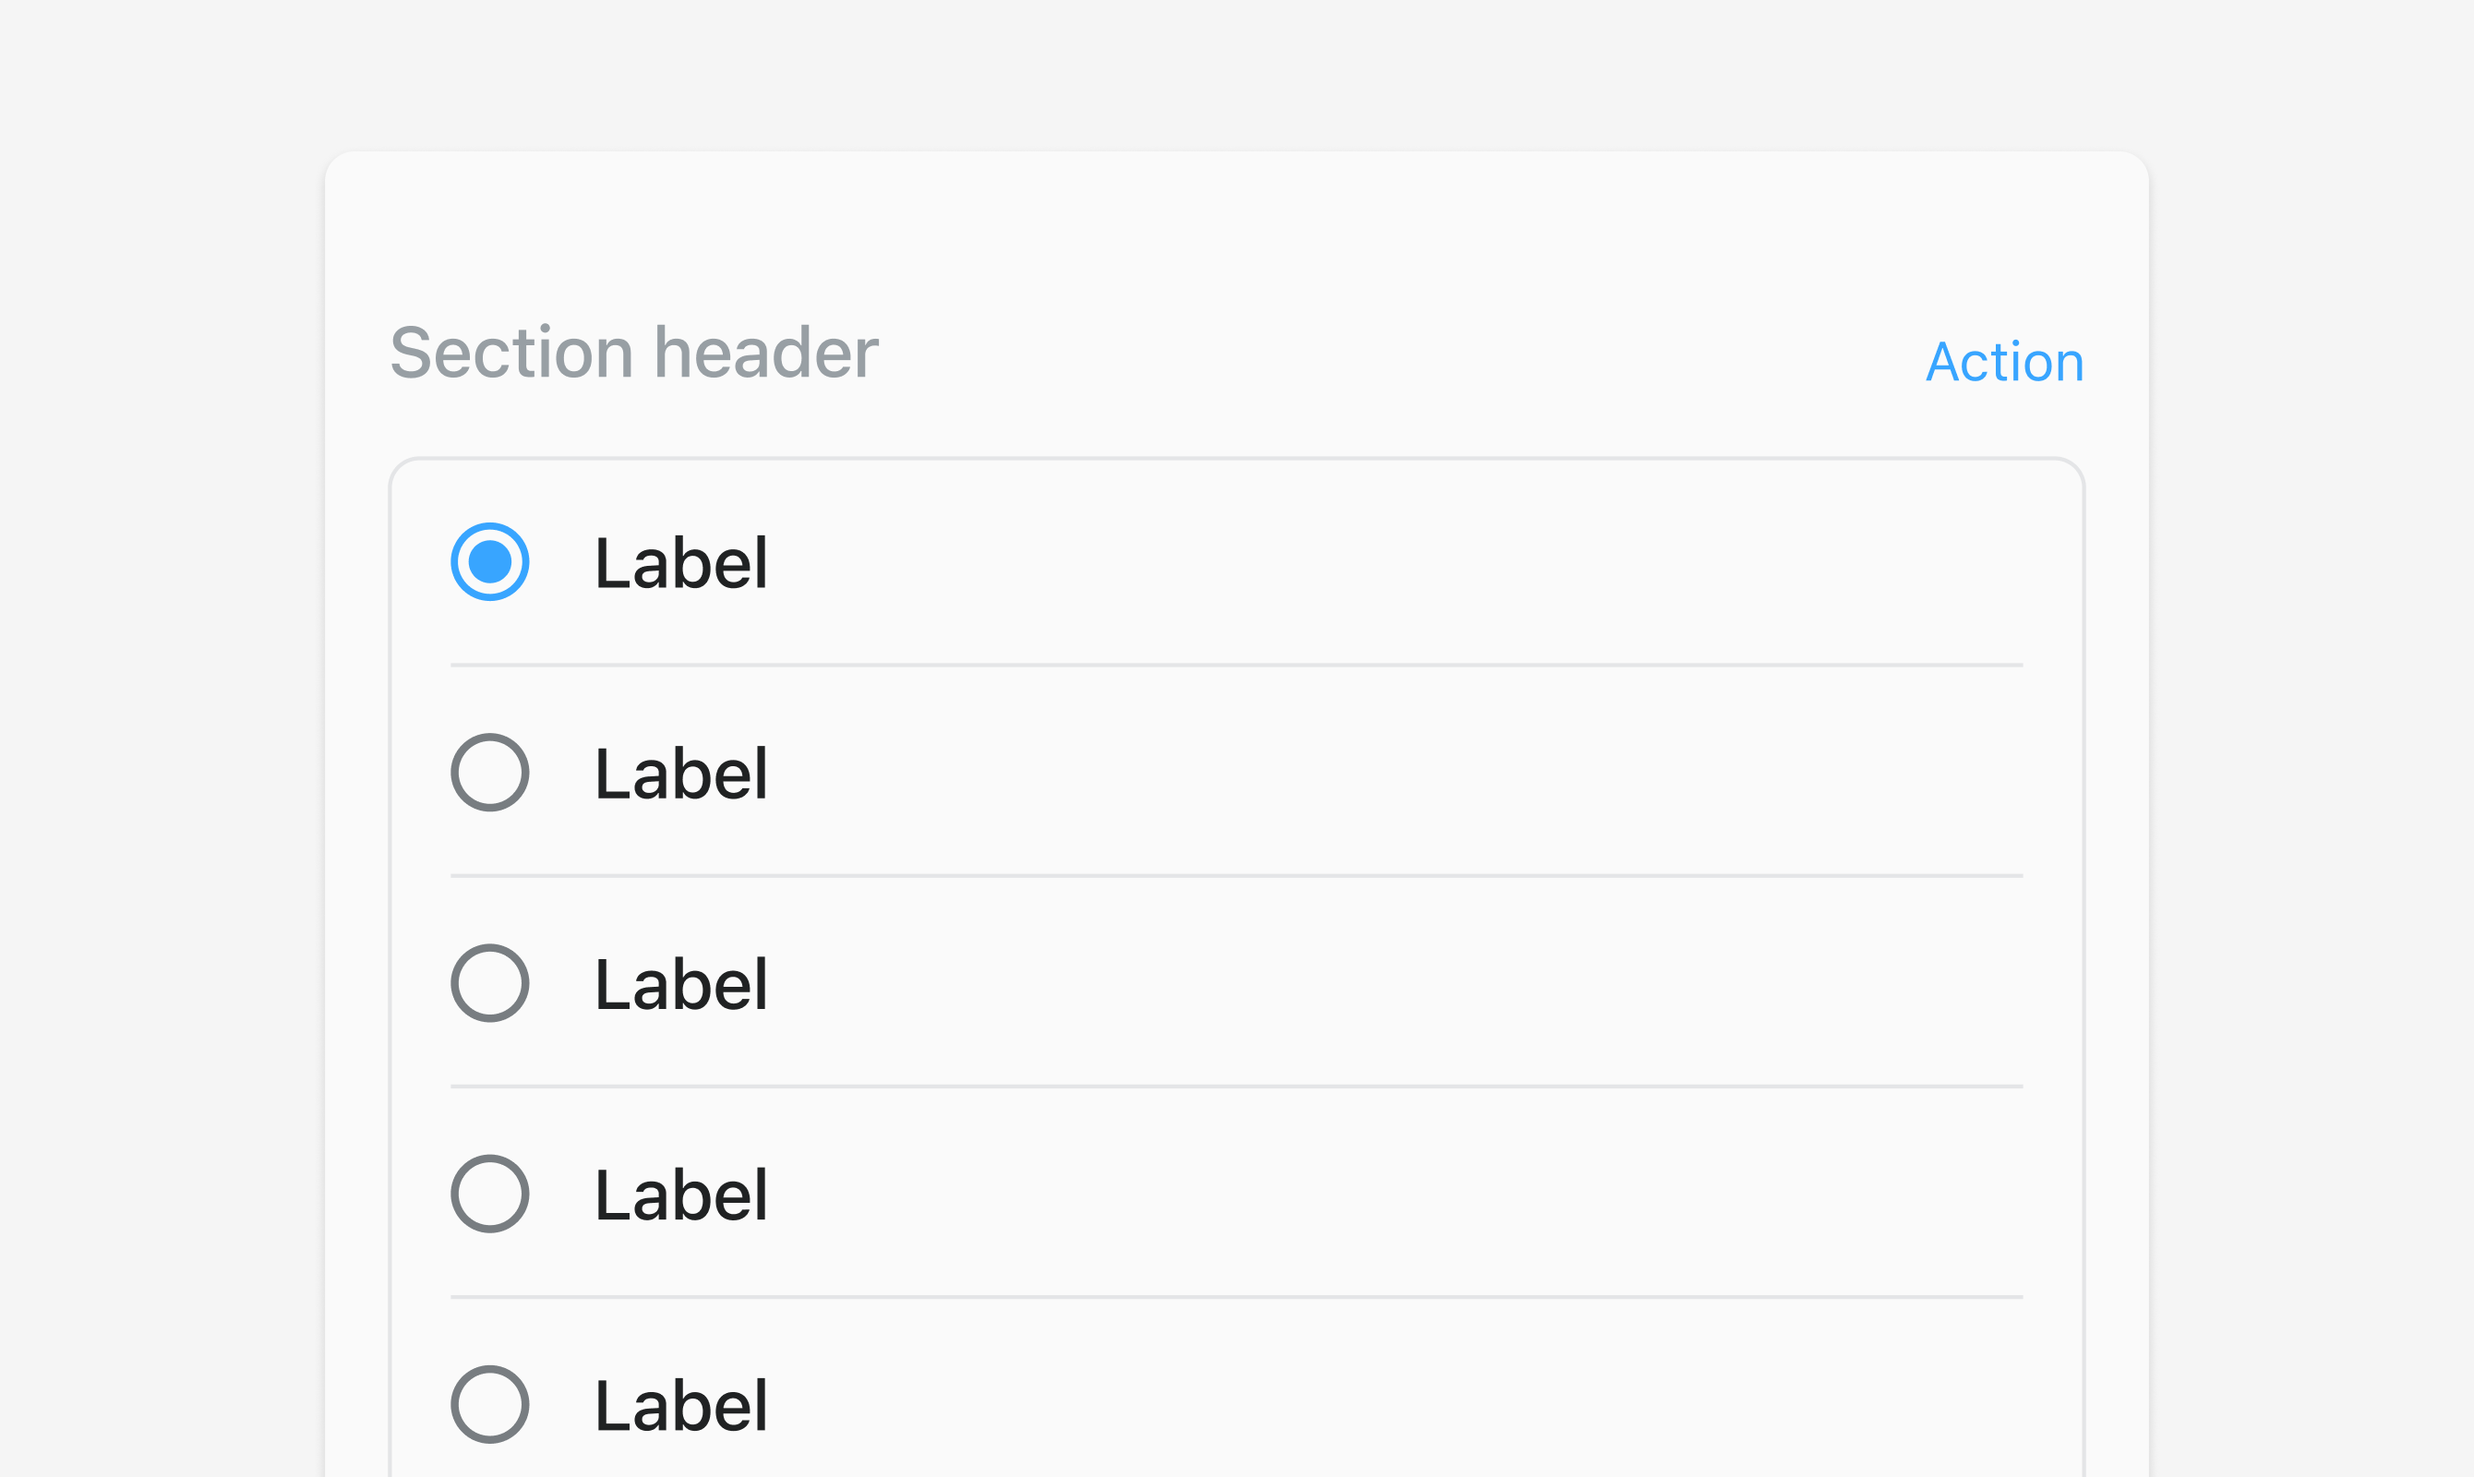
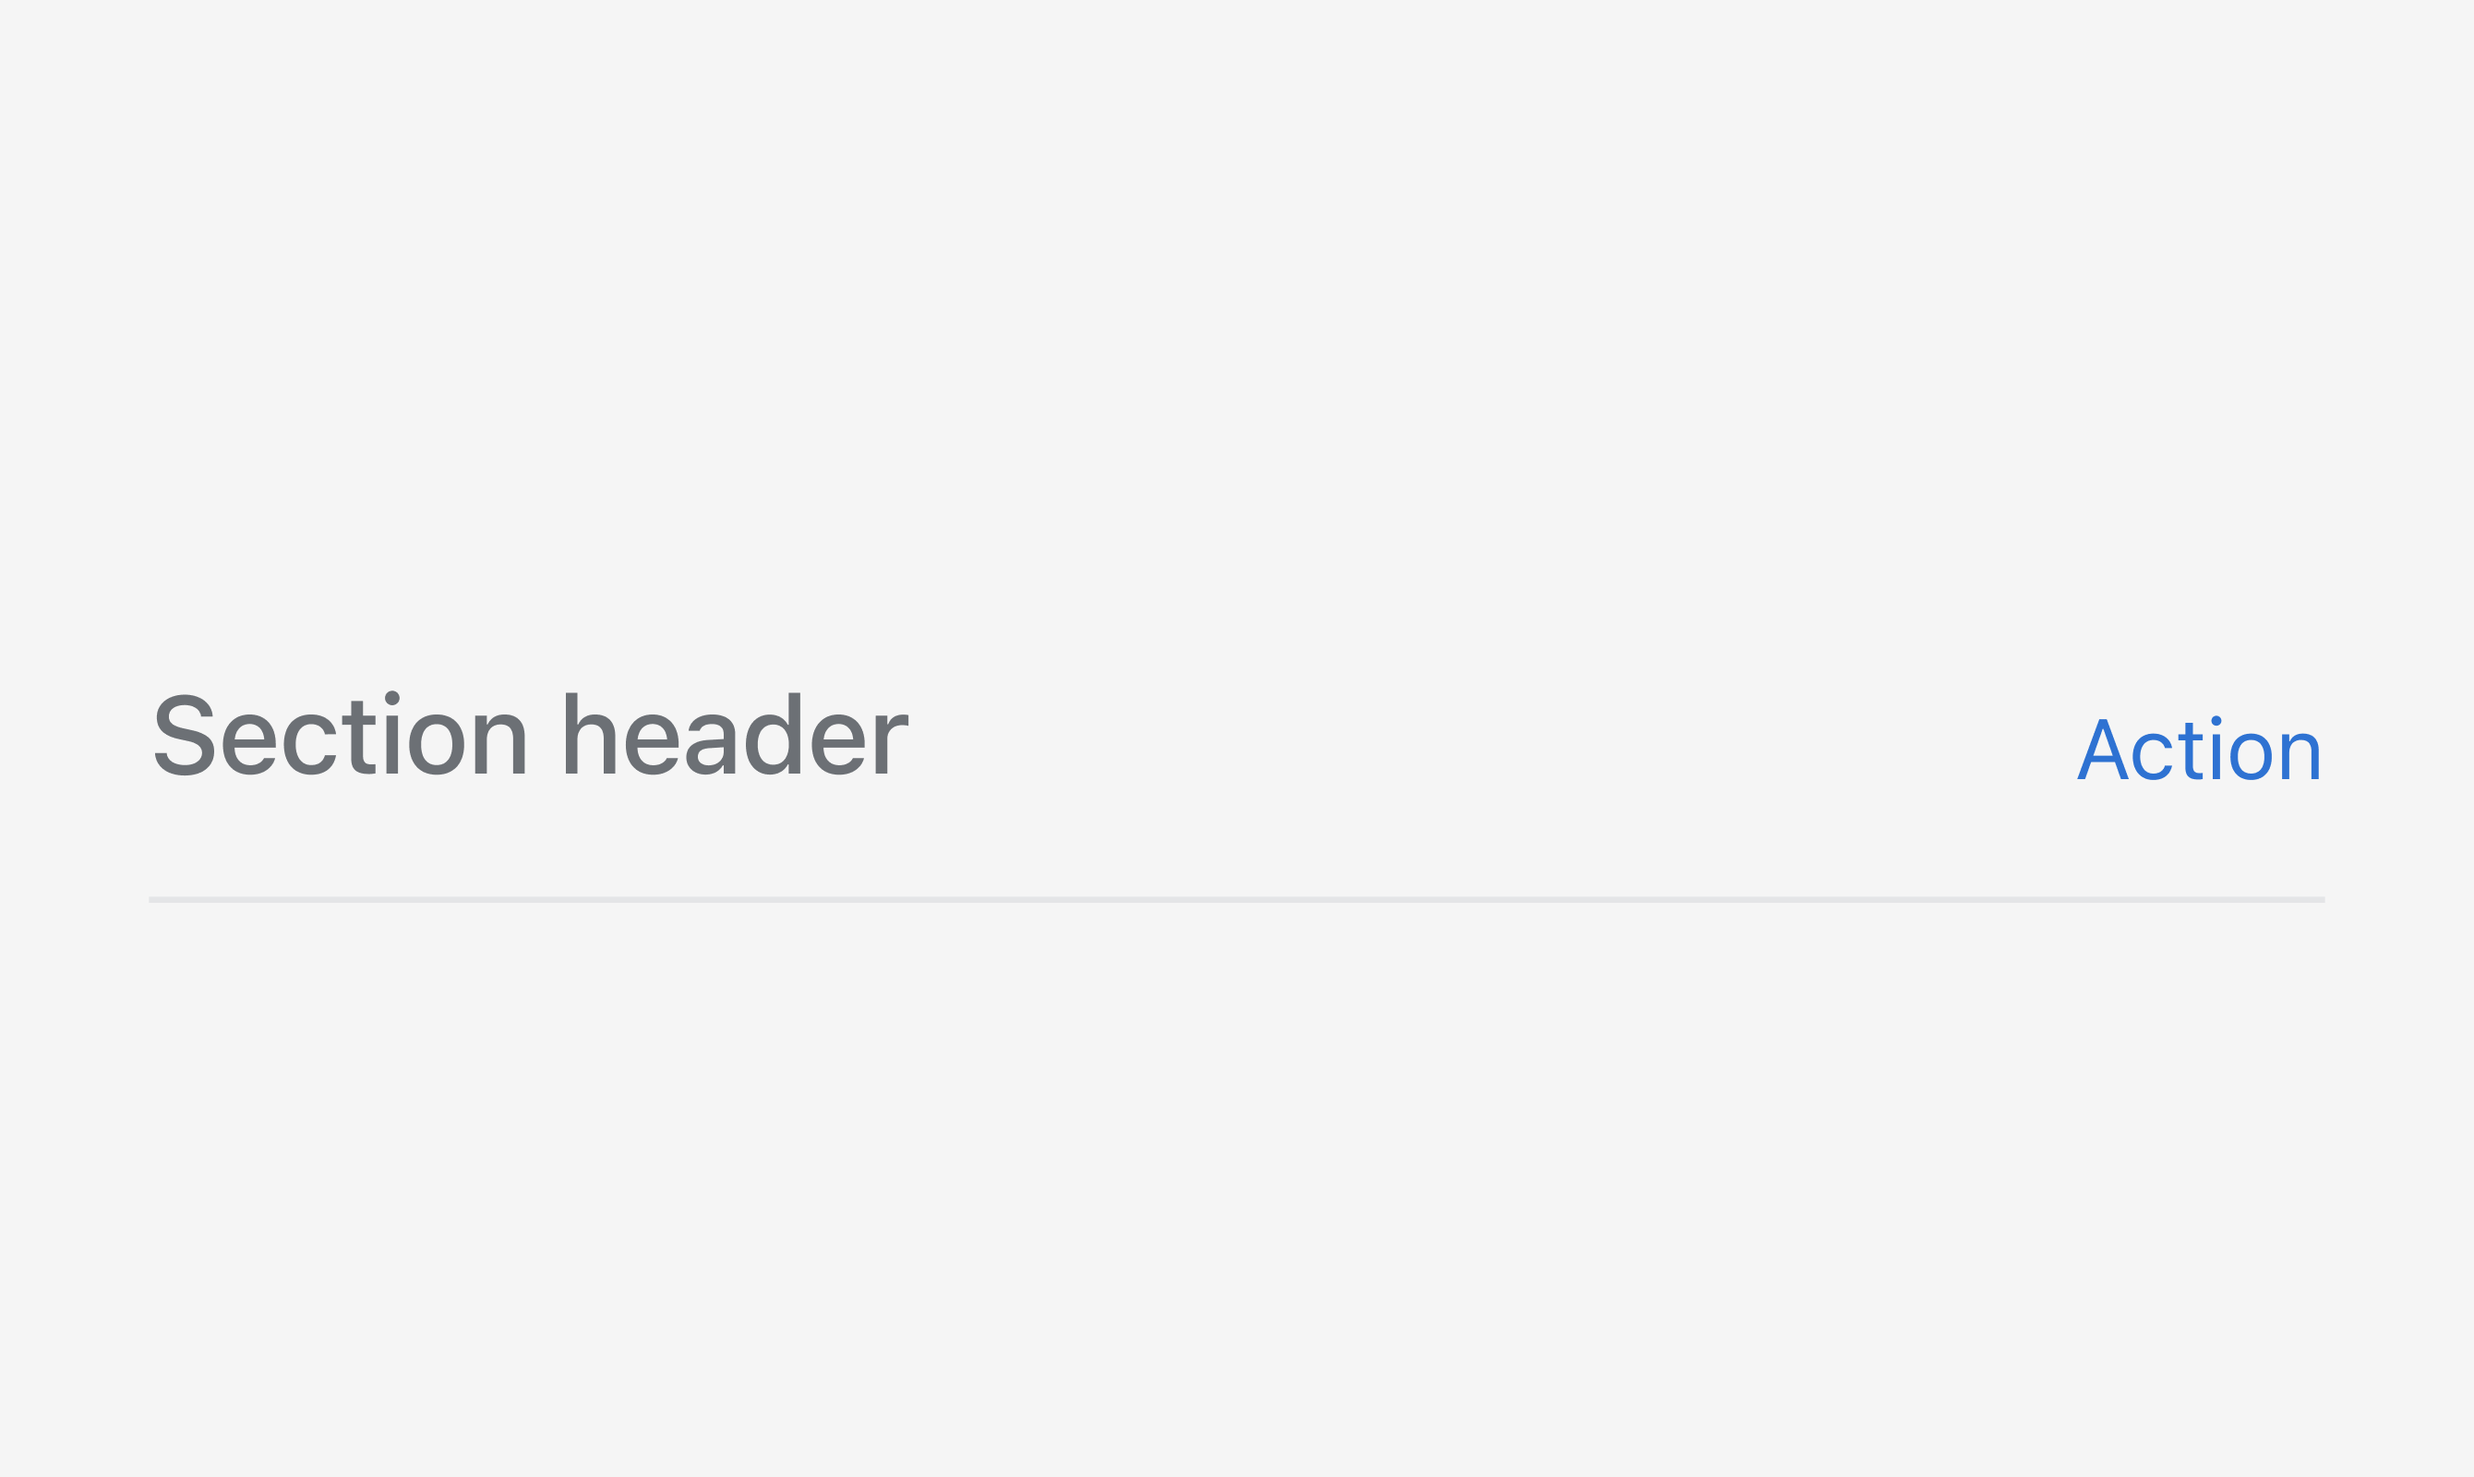
add docs for pos ui extension SectionHeader component

diff --git a/packages/ui-extensions/docs/surfaces/point-of-sale/reference/examples/section-header/default.example.ts b/packages/ui-extensions/docs/surfaces/point-of-sale/reference/examples/section-header/default.example.ts
@@ -1,0 +1,62 @@
+import {
+  extension,
+  Screen,
+  ScrollView,
+  Stack,
+  Navigator,
+  SectionHeader,
+} from '@shopify/ui-extensions/point-of-sale';
+
+export default extension(
+  'pos.home.modal.render',
+  (root, api) => {
+    const screen = root.createComponent(Screen, {
+      name: 'SectionHeader',
+      title: 'SectionHeader',
+    });
+
+    const scrollView =
+      root.createComponent(ScrollView);
+
+    const defaultSectionHeader = root.createComponent(
+      SectionHeader,
+      {
+        title: 'Default',
+      },
+    );
+
+    const actionSectionHeader =
+      root.createComponent(SectionHeader, {
+        title: 'With action',
+        action: {
+          label: 'Show toast',
+          onPress: () =>
+            api.toast.show('Hello world!'),
+        },
+      });
+
+    const noDividerSectionHeader =
+      root.createComponent(SectionHeader, {
+        title: 'Without divider',
+        hideDivider: true,
+      });
+
+    const rootStack = root.createComponent(
+      Stack,
+      {
+        paddingHorizontal: 'HalfPoint',
+        direction: 'vertical',
+      },
+    );
+    rootStack.append(defaultSectionHeader);
+    rootStack.append(actionSectionHeader);
+    rootStack.append(noDividerSectionHeader);
+    
+    scrollView.append(rootStack);
+    screen.append(scrollView);
+    const navigator =
+      root.createComponent(Navigator);
+    navigator.append(screen);
+    root.append(navigator);
+  },
+);

diff --git a/packages/ui-extensions/docs/surfaces/point-of-sale/reference/examples/section-header/default.example.tsx b/packages/ui-extensions/docs/surfaces/point-of-sale/reference/examples/section-header/default.example.tsx
@@ -1,0 +1,24 @@
+import React from 'react'
+import { Navigator, Screen, ScrollView, Stack, reactExtension, useApi, SectionHeader } from '@shopify/ui-extensions-react/point-of-sale'
+
+const ModalComponent = () => {
+  const api = useApi<'pos.home.modal.render'>();
+
+  return (
+    <Navigator>
+      <Screen title="SectionHeader" name="SectionHeader">
+        <ScrollView>
+          <Stack direction="vertical" paddingHorizontal="HalfPoint">
+            <SectionHeader title='Default' />
+            <SectionHeader title='With action' action={{label: 'Action', onPress: () => { }}} />
+            <SectionHeader title='Without divider' hideDivider />
+          </Stack>
+        </ScrollView>
+      </Screen>
+    </Navigator>
+  )
+}
+
+export default reactExtension('pos.home.modal.render', () => {
+  return <ModalComponent />
+}) 

diff --git a/packages/ui-extensions/docs/surfaces/point-of-sale/reference/components/SectionHeader.doc.ts b/packages/ui-extensions/docs/surfaces/point-of-sale/reference/components/SectionHeader.doc.ts
@@ -1,0 +1,30 @@
+import {ReferenceEntityTemplateSchema} from '@shopify/generate-docs';
+import {generateCodeBlock} from '../helpers/generateCodeBlock';
+
+const data: ReferenceEntityTemplateSchema = {
+  name: 'SectionHeader',
+  description:
+    'A heading style text component with an optional divider line to structure content.',
+  isVisualComponent: true,
+  type: 'component',
+  definitions: [
+    {
+      title: 'SectionHeader',
+      description: '',
+      type: 'SectionHeaderProps',
+    },
+  ],
+  category: 'Components',
+  related: [],
+  thumbnail: 'section-header-thumbnail.png',
+  defaultExample: {
+    image: 'section-header-default.png',
+    codeblock: generateCodeBlock(
+      'SectionHeader',
+      'section-header',
+      'default.example',
+    ),
+  },
+};
+
+export default data;

diff --git a/packages/ui-extensions/docs/surfaces/point-of-sale/staticPages/pages/versions.doc.ts b/packages/ui-extensions/docs/surfaces/point-of-sale/staticPages/pages/versions.doc.ts
@@ -24,6 +24,7 @@ const data: LandingTemplateSchema = {
 
 ### Features
 
+- Introduced a [SectionHeader component](/docs/api/pos-ui-extensions/components/sectionheader). It can be used to title sections and structure content.
 - Removed \`subtitle\` property to the [FormattedTextField](/docs/api/pos-ui-extensions/apis/formatted-text-field) component.
 - Removed \`subtitle\` property to the [TextField](/docs/api/pos-ui-extensions/apis/text-field) component.
 - Renamed the \`OrderAPIContent\` interface to \`OrderApiContent\`.

diff --git a/packages/ui-extensions/docs/surfaces/point-of-sale/reference/components/Section.doc.ts b/packages/ui-extensions/docs/surfaces/point-of-sale/reference/components/Section.doc.ts
@@ -24,9 +24,9 @@ const data: ReferenceEntityTemplateSchema = {
   ],
   category: 'Components',
   related: [],
-  thumbnail: 'section-header-thumbnail.png',
+  thumbnail: 'section-thumbnail.png',
   defaultExample: {
-    image: 'section-header-default.png',
+    image: 'section-default.png',
     codeblock: generateCodeBlockForComponent('Section', 'default.example'),
   },
 };
